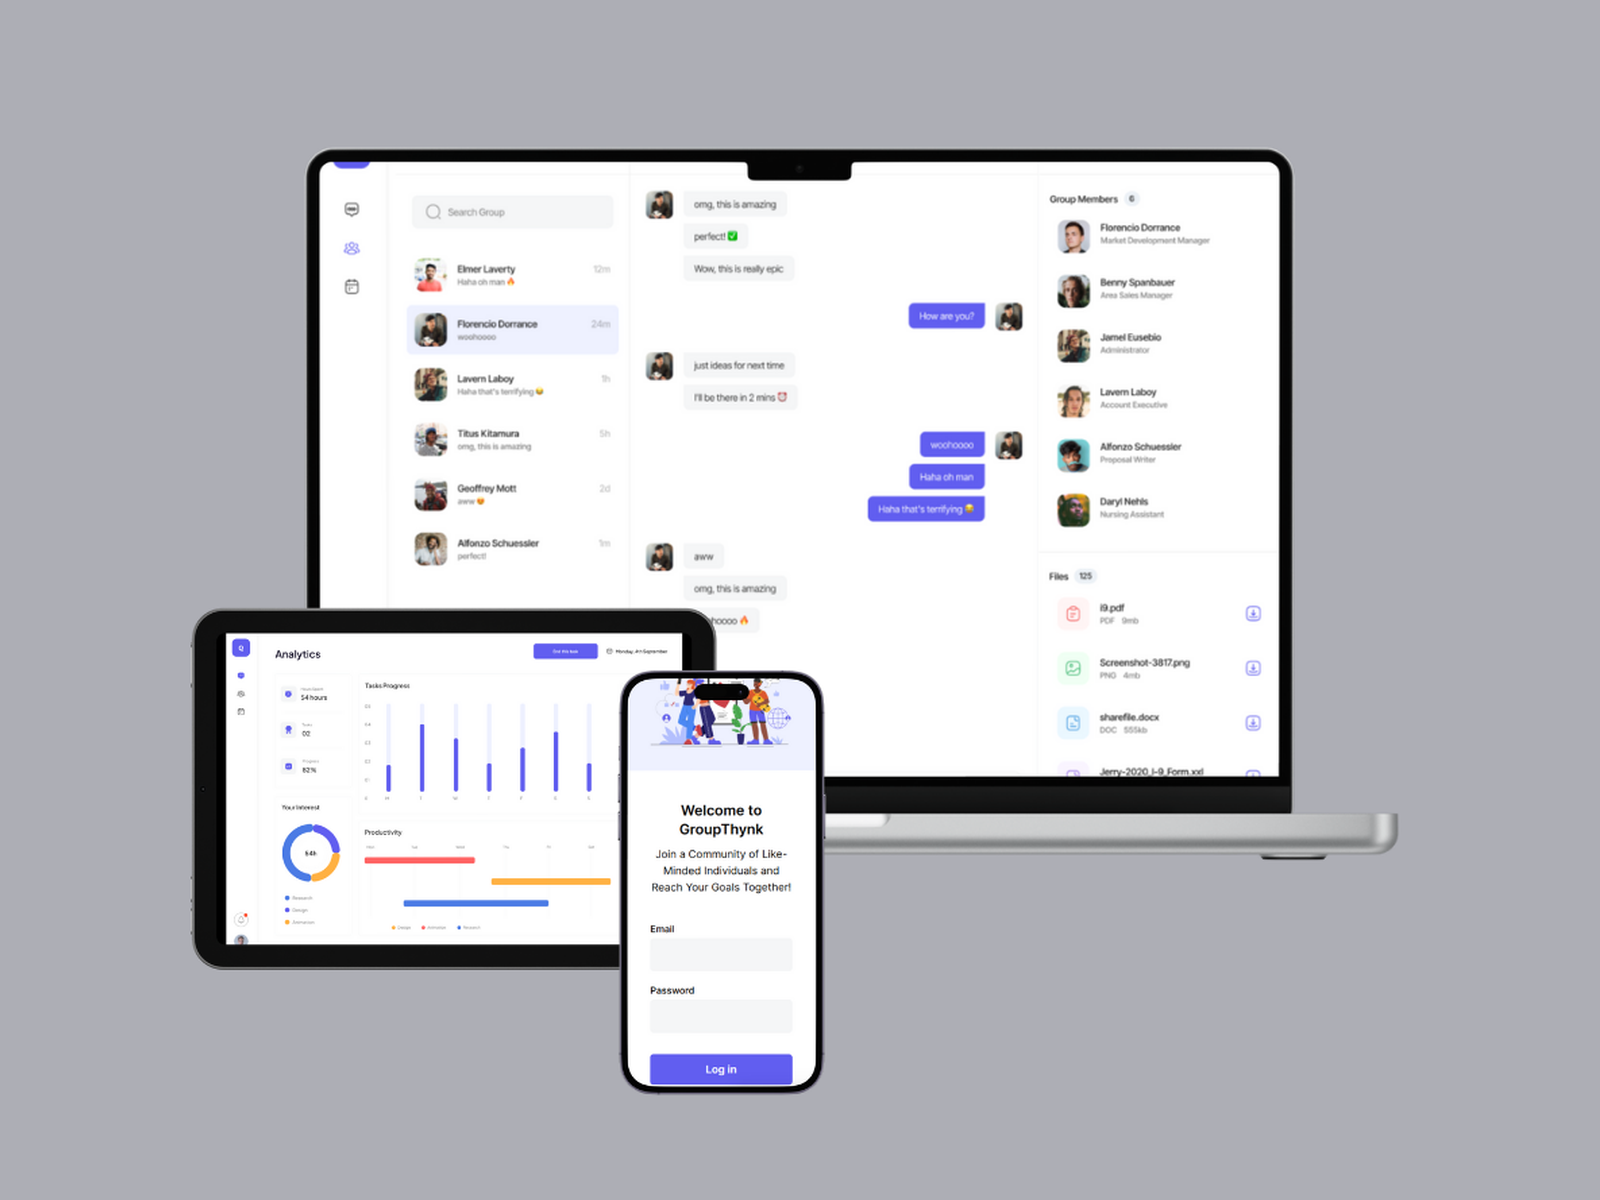
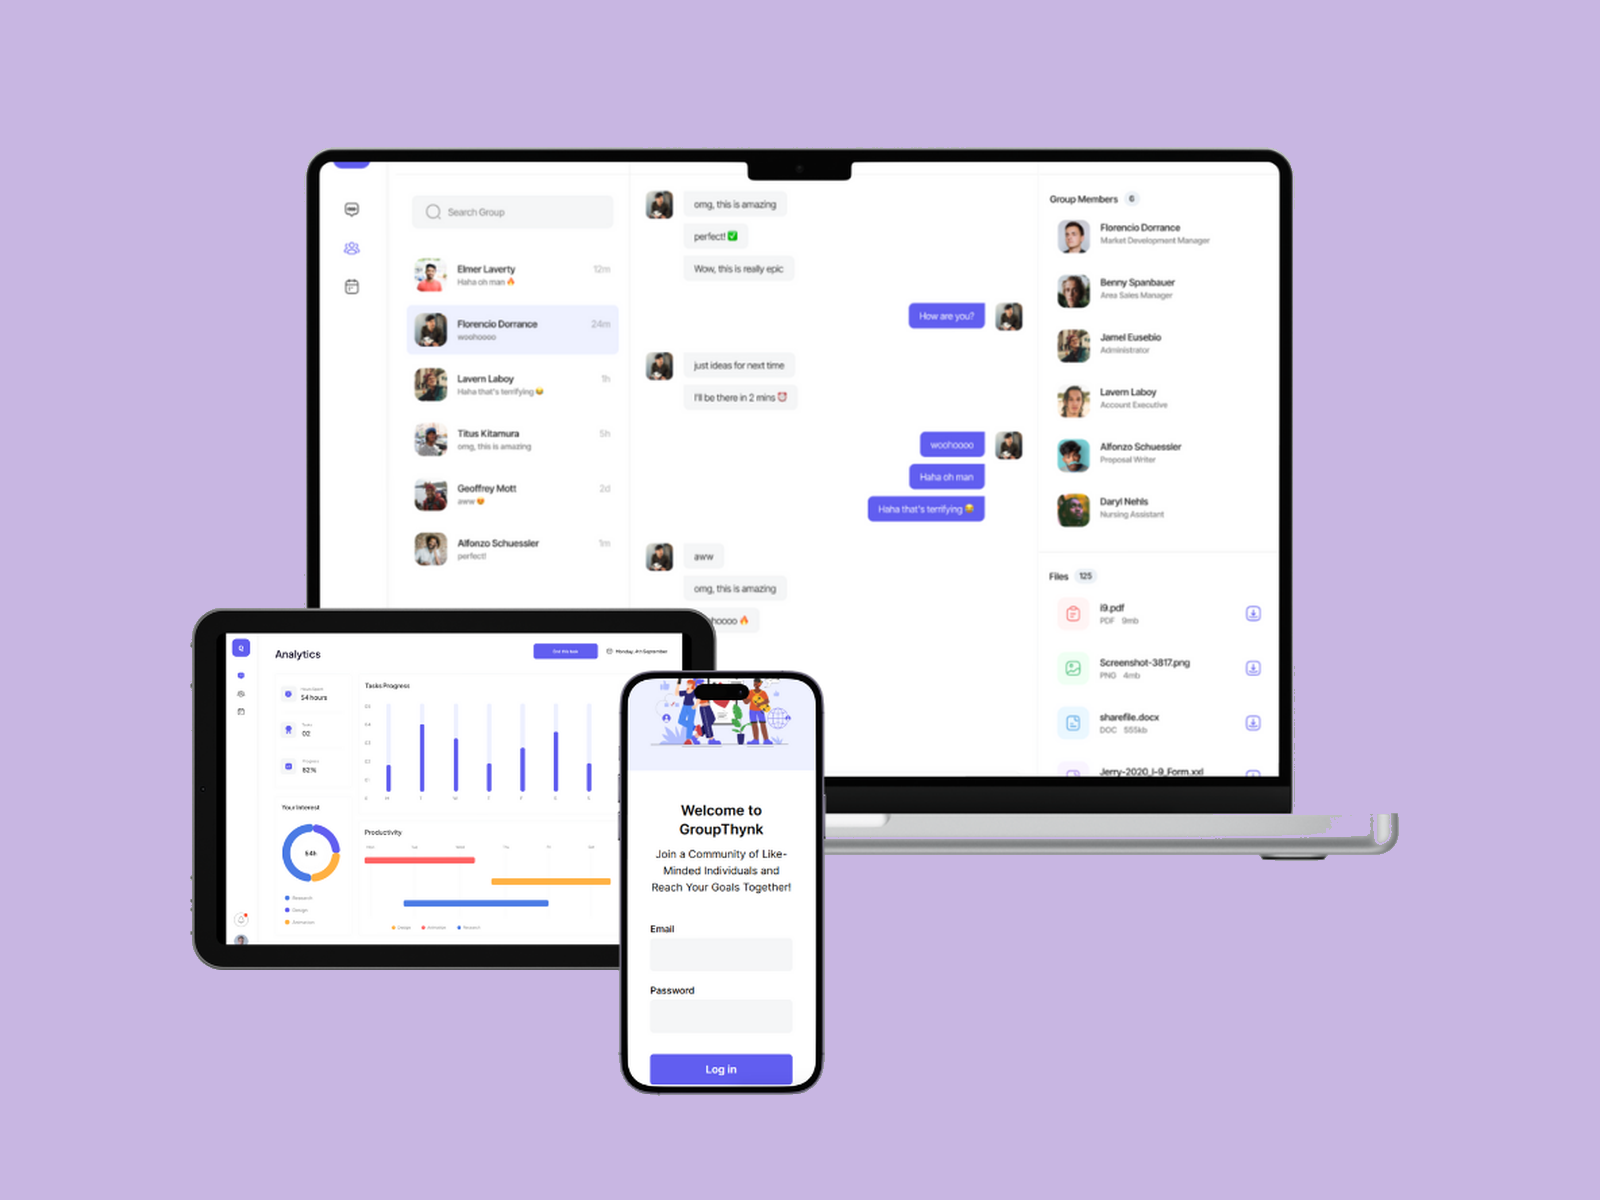
Update project mockups, styling, and assets to smart-meal-v4

diff --git a/src/data/portfolioData.ts b/src/data/portfolioData.ts
@@ -144,7 +144,7 @@ export const portfolioData = {
       description:
         "AI-powered food recommendation platform with personalized meal plans, macro tracking, and dynamic grocery budgeting.",
       tags: ["Next.js", "AI", "MongoDB", "TailwindCSS"],
-      image: "/images/smart-meal.png",
+      image: "/images/smart-meal-v4.png",
       accentColor: "#2563FF",
       githubUrl: "https://github.com/manshahussain5",
       liveUrl: "https://smart-meal-ai-jsfc.vercel.app/",
@@ -157,7 +157,7 @@ export const portfolioData = {
       description:
         "Comprehensive career advisory and recruitment platform helping candidates optimize portfolios and land top industry roles.",
       tags: ["React", "Node.js", "MongoDB", "TailwindCSS"],
-      image: "/images/my-career.png",
+      image: "/images/my-career-v2.png",
       accentColor: "#3B82F6",
       githubUrl: "https://github.com/manshahussain5",
       liveUrl: "https://www.mycareer.services/",
@@ -170,7 +170,7 @@ export const portfolioData = {
       description:
         "High-performance corporate HVAC systems web presence with interactive booking and quote calculator.",
       tags: ["Next.js", "React", "TailwindCSS", "SEO"],
-      image: "/images/watan-cool.png",
+      image: "/images/watan-cool-v2.png",
       accentColor: "#0284C7",
       githubUrl: "https://github.com/manshahussain5",
       liveUrl: "https://www.watancoolandcool.com/",
@@ -183,7 +183,7 @@ export const portfolioData = {
       description:
         "Modern logistics and on-demand water supply booking web platform serving urban and commercial clients.",
       tags: ["React", "Node.js", "Express", "TailwindCSS"],
-      image: "/images/riyadh-water.png",
+      image: "/images/riyadh-water-v2.png",
       accentColor: "#2563FF",
       githubUrl: "https://github.com/manshahussain5",
       liveUrl: "https://www.riyadhwatertankers.com/",
@@ -209,7 +209,7 @@ export const portfolioData = {
       description:
         "Real-time messaging and collaborative group discussion application built with WebSockets, instant presence, and encrypted rooms.",
       tags: ["React", "Node.js", "WebSockets", "MongoDB"],
-      image: "/images/3.png",
+      image: "/images/3-v2.png",
       accentColor: "#8B5CF6",
       githubUrl: "https://github.com/manshahussain5",
       liveUrl: "https://community-frontend-green.vercel.app/signup",

diff --git a/src/components/Projects.tsx b/src/components/Projects.tsx
@@ -8,12 +8,12 @@ import AnimatedHeading from "@/components/AnimatedHeading";
 
 // Canvas background colors matching each mockup canvas exactly
 const projectBgMap: Record<string, string> = {
-  "smart-meal-ai": "#A7A8AD",
-  "my-career": "#A4A5AC",
-  "watan-cool": "#A5A5AB",
-  "riyadh-water": "#A4A4AA",
+  "smart-meal-ai": "#FBCFE8",
+  "my-career": "#A8C6EA",
+  "watan-cool": "#A0D8D8",
+  "riyadh-water": "#A8D8B9",
   "food-safety-system": "#ECABA4",
-  "community-chat-app": "#ADAEB5",
+  "community-chat-app": "#C8B6E2",
 };
 
 export default function Projects() {
@@ -171,7 +171,7 @@ export default function Projects() {
                 {/* Project Title and Category Underneath */}
                 <div className="pt-3 px-1 flex flex-col">
                   <div className="flex items-center justify-between gap-2">
-                    <h3 className="text-base sm:text-lg font-bold text-[#F08234] hover:text-[#EA580C] leading-tight truncate">
+                    <h3 className="text-base sm:text-lg font-bold bg-gradient-to-r from-blue-600 via-indigo-600 to-purple-600 bg-clip-text text-transparent group-hover:opacity-80 transition-opacity leading-tight truncate">
                       {project.title}
                     </h3>
                     {project.liveUrl && (

diff --git a/src/components/ContactCTA.tsx b/src/components/ContactCTA.tsx
@@ -198,6 +198,7 @@ export default function ContactCTA() {
                         id="contact-name"
                         name="name"
                         type="text"
+                        autoComplete="name"
                         required
                         placeholder="e.g. Alex Morgan"
                         value={formData.name}
@@ -214,6 +215,7 @@ export default function ContactCTA() {
                         id="contact-email"
                         name="email"
                         type="email"
+                        autoComplete="email"
                         required
                         placeholder="alex@company.com"
                         value={formData.email}
